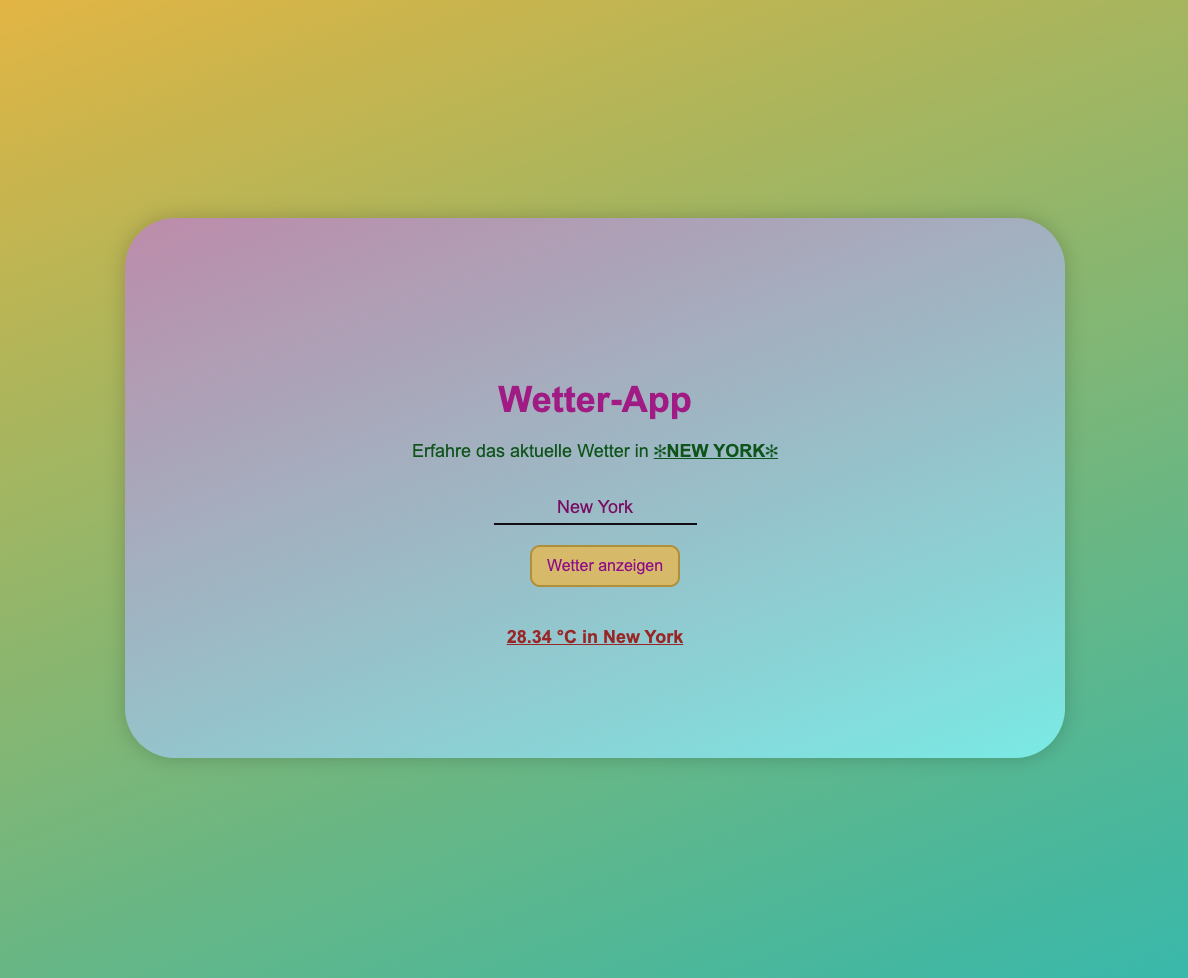
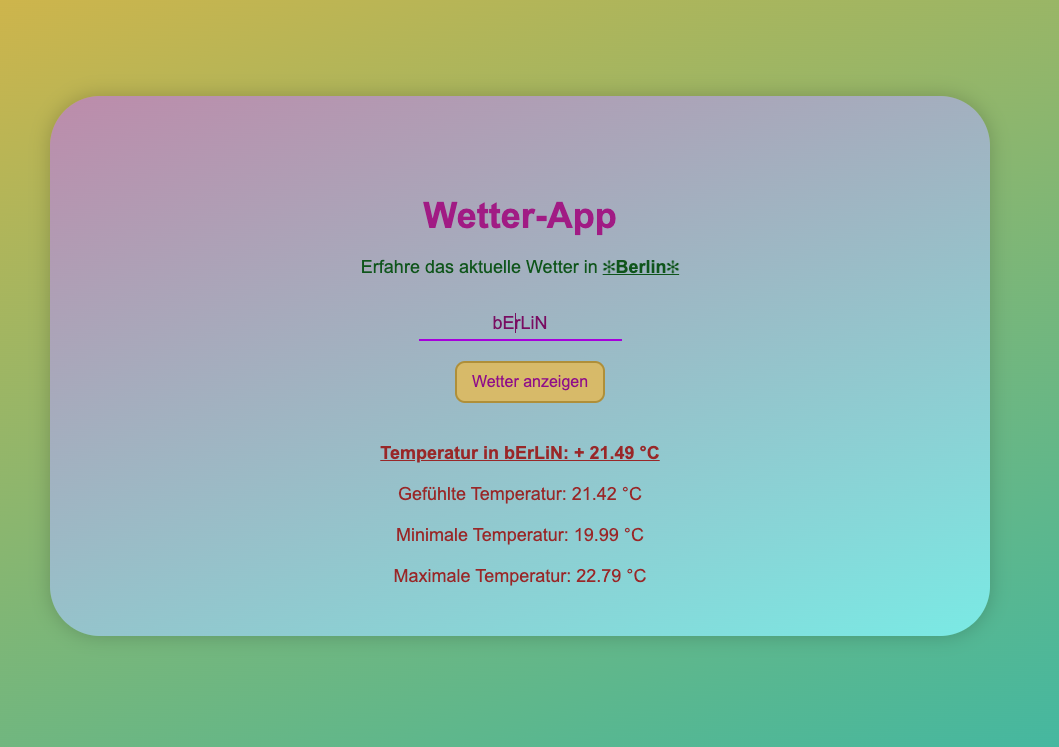
✨ Stadtname-Formatierung verbessert + Wetterinfos erweitert
- Neue computed property `formattedCityName` eingeführt, um automatisch den ersten Buchstaben groß und den Rest klein darzustellen (z. B. „Berlin“ statt „beRLiN“).
- `cityName` basiert nun auf `formattedCityName` für einheitliche und saubere Darstellung.
- Wetterdatenausgabe erweitert um: Temperatur, gefühlte Temperatur, minimale und maximale Temperatur.
- Kleinere Optimierungen an Template-Logik (`v-if` statt `v-show`) und Textausgabe für bessere UX.

diff --git a/src/App.vue b/src/App.vue
@@ -10,8 +10,13 @@ export default {
     };
   },
   computed: {
+    formattedCityName() {
+      if (!this.city) return "";
+      const trimmed = this.city.trim().toLowerCase();
+      return trimmed.charAt(0).toUpperCase() + trimmed.slice(1);
+    },
     cityName() {
-      return "✻" + this.city + "✻";
+      return "✻" + this.formattedCityName + "✻";
     },
     showTemp() {
       return this.info
@@ -61,9 +66,7 @@ export default {
     <p>
       Erfahre das aktuelle Wetter in
       <b
-        ><u>{{
-          city == "" ? "Deiner Stadt ⛅" : cityName.toUpperCase()
-        }}</u></b
+        ><u>{{ city == "" ? "Deiner Stadt ⛅" : cityName }}</u></b
       >
     </p>
     <input v-model="city" type="text" placeholder="Gib deine Stadt ein" />
@@ -71,7 +74,7 @@ export default {
     <button v-else disabled>Stadt eingeben, um das Wetter zu sehen</button>
     <p class="error">{{ error }}</p>
 
-    <div v-show="info != null" style="color: brown">
+    <div v-if="info != null" style="color: brown">
       <p>
         <b
           ><u>{{ showTemp }}</u></b
